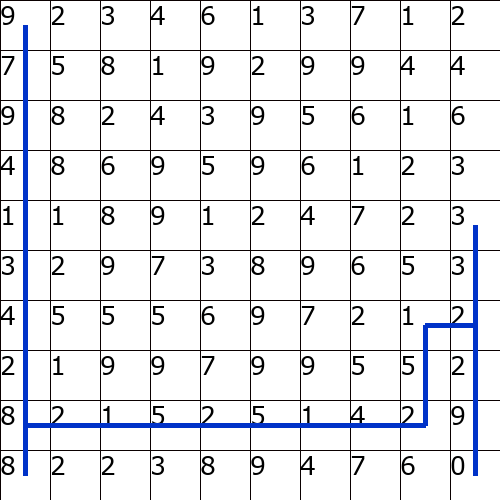
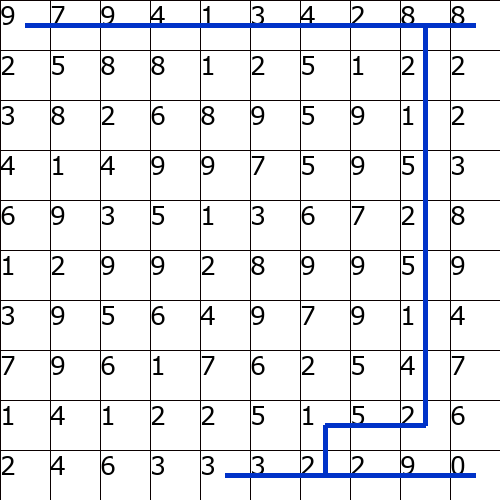
finishing mazes
finishing lamps maze

diff --git a/week12.py b/week12.py
@@ -38,7 +38,7 @@ def solve(graph, start, end, path=[]):
     return paths
 
 
-def drawTiles(graphSize):
+def drawBorders(graphSize):
     sizeOfTile = size // graphSize
     for i in range(graphSize):
         draw.line((0, i * sizeOfTile, size, i * sizeOfTile), fill=10)
@@ -53,7 +53,7 @@ def drawNumbers():
     for i in range(graphSize):
         positions = lines[i].split(' ')
         for j in range(graphSize):
-            draw.text((i * sizeOfTile, j * sizeOfTile), positions[j], font=verdana_font, fill="#000000")
+            draw.text((j * sizeOfTile, i * sizeOfTile), positions[j], font=verdana_font, fill="#000000")
 
 
 def drawPath(path, graphSize):
@@ -61,10 +61,10 @@ def drawPath(path, graphSize):
     for i in range(len(path) - 1):
         vertex1 = path[i].split(',')
         vertex2 = path[i + 1].split(',')
-        x1 = int(vertex1[0]) * sizeOfTile + sizeOfTile // 2
-        y1 = int(vertex1[1]) * sizeOfTile + sizeOfTile // 2
-        x2 = int(vertex2[0]) * sizeOfTile + sizeOfTile // 2
-        y2 = int(vertex2[1]) * sizeOfTile + sizeOfTile // 2
+        y1 = int(vertex1[0]) * sizeOfTile + sizeOfTile // 2
+        x1 = int(vertex1[1]) * sizeOfTile + sizeOfTile // 2
+        y2 = int(vertex2[0]) * sizeOfTile + sizeOfTile // 2
+        x2 = int(vertex2[1]) * sizeOfTile + sizeOfTile // 2
         draw.line((x1, y1, x2, y2), fill=(0, 50, 200), width=5)
 
 
@@ -73,7 +73,7 @@ def drawMaze():
     # maze entry is in top left corner and exit in bottom right corner
     paths = solve(graph, '0,0', str(graphSize - 1) + ',' + str(graphSize - 1))
     print(paths)
-    drawTiles(graphSize)
+    drawBorders(graphSize)
     drawNumbers()
     drawPath(min(paths, key=len), graphSize)
     image.save('C:\\Users\\Martin\\Dropbox\\Skola\\IV122\\images12\\numberMaze.png')
@@ -89,28 +89,113 @@ def lampsToGraph():
     graph = {}
     graphSize = len(lines)
     lamps = []
+    matrix = [[0 for x in range(graphSize)] for y in range(graphSize)]
     for i in range(graphSize):
         rows = lines[i].split(' ')
         for j in range(graphSize):
+            matrix[i][j] = rows[j]
+
+    for i in range(graphSize):
+        for j in range(graphSize):
             graph[str(i) + ',' + str(j)] = set()
-            # f=free place o=obstacle l=lamp
-            if rows[j] == 'l':
-                lamps.append(str(i) + ',' + str(j))
+            # f=free space o=obstacle l=lamp
+            if matrix[i][j] == 'l':
+                lamps.append({'vertex': str(i) + ',' + str(j),
+                              'paths': {},
+                              'distances': {}})
             for direction in ((0, 1), (1, 0), (0, -1), (-1, 0)):
                 movedX = i + direction[0]
                 movedY = j + direction[1]
-                if isPointInsideOfMaze(movedX, movedY, graphSize) and (rows[j] == 'l' or rows[j] == 'f'):
+                if isPointInsideOfMaze(movedX, movedY, graphSize) and matrix[movedX][movedY] != 'o' and matrix[i][
+                    j] != 'o':
                     graph[str(i) + ',' + str(j)].add(str(movedX) + ',' + str(movedY))
     return graph, graphSize, lamps
 
 
+def dijsktra(graph, initial):
+    costOfPath = {initial: 0}
+    path = {}
+    vertices = set(graph.keys())
+    while vertices:
+        minVertex = None
+        for node in vertices:
+            if node in costOfPath:
+                if minVertex is None:
+                    minVertex = node
+                elif costOfPath[node] < costOfPath[minVertex]:
+                    minVertex = node
+        if minVertex is None:
+            break
+        vertices.remove(minVertex)
+        currentWeight = costOfPath[minVertex]
+        for edge in graph[minVertex]:
+            weight = currentWeight + 1
+            if edge not in costOfPath or weight < costOfPath[edge]:
+                costOfPath[edge] = weight
+                path[edge] = minVertex
+    return costOfPath, path
+
+
+def findBestIntersection(lamps, graphSize):
+    pathCostSums = {}
+    for i in range(graphSize):
+        for j in range(graphSize):
+            pathCostSums[str(i) + ',' + str(j)] = 0
+    for lamp in lamps:
+        for vertex in lamp['distances'].keys():
+            pathCostSums[vertex] += lamp['distances'][vertex]
+    minPathCost = 10000
+    bestIntersection = ''
+    for vertex in pathCostSums.keys():
+        if 0 < pathCostSums[vertex] < minPathCost:
+            minPathCost = pathCostSums[vertex]
+            bestIntersection = vertex
+    return bestIntersection
+
+
+def drawTiles():
+    lines = open('lamps.txt').read().split('\n')
+    graphSize = len(lines)
+    sizeOfTile = size // graphSize
+    nextTileX = 0
+    nextTileY = 0
+    for i in range(graphSize):
+        objects = lines[i].split(' ')
+        for j in range(graphSize):
+            color = (255, 255, 255)
+            if objects[j] == 'o':
+                color = (128, 128, 128)
+            if objects[j] == 'l':
+                color = (255, 255, 0)
+            draw.rectangle((nextTileX, nextTileY, nextTileX + sizeOfTile, nextTileY + sizeOfTile), fill=color)
+            nextTileX += sizeOfTile
+        nextTileX = 0
+        nextTileY += sizeOfTile
+
+
+def getPathsFromDictionary(lamps, intersection):
+    paths = []
+    for lamp in lamps:
+        path = []
+        currentVertex = intersection
+        while currentVertex != lamp['vertex']:
+            path.append(currentVertex)
+            currentVertex = lamp['paths'][currentVertex]
+        path.append(currentVertex)
+        paths.append(path)
+    return paths
+
+
 def drawLamps():
     graph, graphSize, lamps = lampsToGraph()
-    paths = []
-    # TODO paths = ...
-    print(paths)
-    drawTiles(graphSize)
-    drawPath(min(paths, key=len), graphSize)
+    for lamp in lamps:
+        lamp['distances'], lamp['paths'] = dijsktra(graph, lamp['vertex'])
+    intersection = findBestIntersection(lamps, graphSize)
+    paths = getPathsFromDictionary(lamps, intersection)
+    drawTiles()
+    drawBorders(graphSize)
+    for path in paths:
+        drawPath(path, graphSize)
     image.save('C:\\Users\\Martin\\Dropbox\\Skola\\IV122\\images12\\lamps.png')
     image.show()
 
